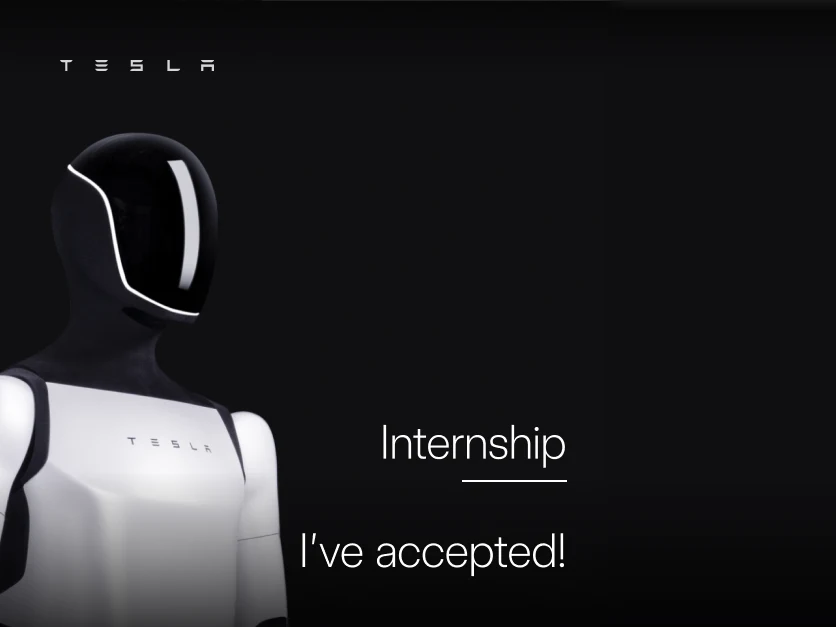
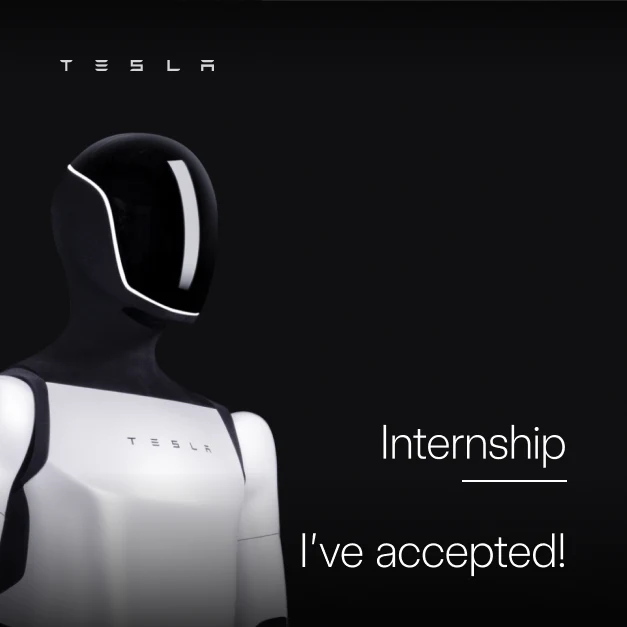
Show the Tesla Autopilot photo whole at its square shape.

diff --git a/src/components/cards/workExperience.jsx b/src/components/cards/workExperience.jsx
@@ -1,7 +1,8 @@
 import React, { useEffect, useState } from 'react';
 import { listedExperiences as experiences } from '../../data/experience.js';
 
-export function CyclingImage({ images, alt }) {
+// `aspect`: the photos' shape (4:3 unless a role gives its own).
+export function CyclingImage({ images, alt, aspect = '4 / 3' }) {
   const [activeIndex, setActiveIndex] = useState(0);
 
   useEffect(() => {
@@ -13,7 +14,7 @@ export function CyclingImage({ images, alt }) {
   }, [images]);
 
   return (
-    <div style={{ position: 'relative', width: '100%', aspectRatio: '4 / 3', borderRadius: '10px', overflow: 'hidden' }}>
+    <div style={{ position: 'relative', width: '100%', aspectRatio: aspect, borderRadius: '10px', overflow: 'hidden' }}>
       {images.map((src, i) => (
         <img
           key={i}

diff --git a/src/components/experience/KitsuneCard.jsx b/src/components/experience/KitsuneCard.jsx
@@ -71,10 +71,10 @@ function RoleContent({ role, sizer = false, paired = false }) {
       {role.images?.length > 0 && (
         <div className="kitsune-role-media">
           {sizer
-            ? <div style={{ width: '100%', aspectRatio: paired && role.images.length > 1 ? '8 / 3' : '4 / 3' }} />
+            ? <div style={{ width: '100%', aspectRatio: paired && role.images.length > 1 ? '8 / 3' : role.imageAspect ?? '4 / 3' }} />
             : paired && role.images.length > 1
               ? <PairedImages images={role.images} alt={role.company ?? ''} />
-              : <CyclingImage images={role.images} alt={role.company ?? ''} />}
+              : <CyclingImage images={role.images} alt={role.company ?? ''} aspect={role.imageAspect} />}
         </div>
       )}
     </>

diff --git a/src/data/experience.js b/src/data/experience.js
@@ -14,6 +14,8 @@ export const experiences = [
     hologram: ['#ff2238'],
     emphasis: true,
     images: ['/work_experience/tesla_autopilot/tesla_autopilot.webp'],
+    // Its photo is square: shown whole, taller than the others' 4:3.
+    imageAspect: '1 / 1',
     pending: true,
   },
   {
